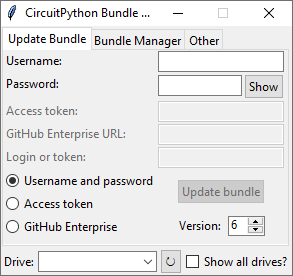
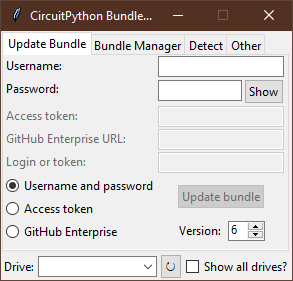
Update README.md about detect tab

diff --git a/gui.py b/gui.py
@@ -1085,7 +1085,6 @@ class GUI(tk.Tk):
         self.detect_frame = ttk.Frame(master=self.notebook)
         self.detect_frame.grid(row=0, column=0)
         self.notebook.add(child=self.detect_frame, text="Detect")
-        # TODO: Test on Linux
         # TODO: Test on macOS
         self.create_detect_top_ui()
         self.create_detected_frame()

diff --git a/README.md b/README.md
@@ -4,17 +4,18 @@ A Python program that makes it easy to manage modules on a CircuitPython device!
 request if you can fix it! 
 
 ## Table of Contents
-1. [Installing](https://github.com/UnsignedArduino/CircuitPython-Bundle-Manager#installing)
-   1. [Installing from a binary](https://github.com/UnsignedArduino/CircuitPython-Bundle-Manager#installing-from-a-binary)
-   2. [Installing from source](https://github.com/UnsignedArduino/CircuitPython-Bundle-Manager#installing-from-source)
-2. [Running](https://github.com/UnsignedArduino/CircuitPython-Bundle-Manager#running)
-3. [How to use](https://github.com/UnsignedArduino/CircuitPython-Bundle-Manager#how-to-use)
-   1. [First use](https://github.com/UnsignedArduino/CircuitPython-Bundle-Manager#first-run)
-   2. [Selecting a device](https://github.com/UnsignedArduino/CircuitPython-Bundle-Manager#selecting-a-device)
-   3. [Managing modules](https://github.com/UnsignedArduino/CircuitPython-Bundle-Manager#managing-modules)
-   4. [Keeping the bundle updated](https://github.com/UnsignedArduino/CircuitPython-Bundle-Manager#keeping-the-bundle-updated)
-   5. [Other](https://github.com/UnsignedArduino/CircuitPython-Bundle-Manager#other)
-4. [Options](https://github.com/UnsignedArduino/CircuitPython-Bundle-Manager#options)
+1. [Installing](#installing)
+   1. [Installing from a binary](#installing-from-a-binary)
+   2. [Installing from source](#installing-from-source)
+2. [Running](#running)
+3. [How to use](#how-to-use)
+   1. [First use](#first-run)
+   2. [Selecting a device](#selecting-a-device)
+   3. [Managing modules](#managing-modules)
+   4. [Keeping the bundle updated](#keeping-the-bundle-updated)
+   5. [Automatically detecting imported modules](#automatically-detecting-imported-modules)
+   6. [Other](#other)
+4. [Options](#options)
 
 ## Installing
 
@@ -65,16 +66,14 @@ You can find a detailed description of the one-directory method
 how the one-file method works 
 [here](https://pyinstaller.readthedocs.io/en/stable/operating-mode.html#bundling-to-one-file).
 
-[Back to table of contents](https://github.com/UnsignedArduino/CircuitPython-Bundle-Manager#table-of-contents)
+[Back to table of contents](#table-of-contents)
 
 ### Installing from source
 
 1. [Download](https://git-scm.com/downloads) and install Git. It does not matter what editor you use for Git's default.
     1. Or...download this repo via the `Download ZIP` option under the green `Code` button, shown in Figure 1.1:
    ![A picture on the Download Zip button on the GitHub page](assets/1/1.png)
-2. [Download](https://www.python.org/downloads/) and install Python 3. 
-   (Here is [Python 3.9](https://www.microsoft.com/en-us/p/python-39/9p7qfqmjrfp7) on the Microsoft Store) 
-   Theoretically, you can use a version as early as 3.6, but I only tested this on 3.7 and 3.9.
+2. [Download](https://www.python.org/downloads/) and install Python **3.9**. (Because I use type definitions)
     1. Make sure to check `Add Python 3.x to PATH`, as shown in Figure 1.2:
        
        ![A picture of the Python 3.9 installer with the Add Python 3.9 to PATH checkbox checked](assets/1/2.png)
@@ -82,6 +81,11 @@ how the one-file method works
        Figure 1.3: (Only applies if you are using the `Customize installation` option in the installer)
        
        ![A picture of the Python 3.9 installer with the tcl/tk and IDLE checkbox checked](assets/1/3.png)
+   
+       If you are building Python, 
+       ([Here is a guide on building Python on Debian I found helpful](https://www.vultr.com/docs/upgrade-python-on-debian)) 
+       make sure to install `tk-dev`! (with `sudo apt install tk-dev`) and include SSL support! (Via the `--with-ssl` 
+       option while configuring.)
 3. If you are on Windows, I would also install the 
    [Windows Terminal](https://www.microsoft.com/en-us/p/windows-terminal/9n0dx20hk701) while you are at it.
 4. If you installed Git, `cd` into a convenient directory (like the home directory or the desktop) and run:
@@ -140,7 +144,7 @@ how the one-file method works
     python3 main.py
     ```
 
-[Back to table of contents](https://github.com/UnsignedArduino/CircuitPython-Bundle-Manager#table-of-contents)
+[Back to table of contents](#table-of-contents)
 
 ## Running
 **This only applies if you installed from source!**
@@ -163,11 +167,16 @@ cd path/to/the/CircuitPython-Bundle-Manager
 ```
 Don't forget to give the `.sh` file execute permission! (`chmod +x shell_file.sh`)
 
-[Back to table of contents](https://github.com/UnsignedArduino/CircuitPython-Bundle-Manager#table-of-contents)
+[Back to table of contents](#table-of-contents)
 ## How to use
 
 ### First run
 On run, you should get something like this:
+
+> If the GUI looks different from these images, it's because I don't want to update all these images. I will only 
+> update the relevant images. (So if I add something in the example, Bundle Manager, then I will include new 
+> instructions on how to use it, I won't be updating all the images that show the Bundle Manager.) The functionality 
+> _should_ still be the same.
 
 Figure 2.1: Start up on Windows.
 
@@ -228,9 +237,9 @@ Figure 2.8: The info box when the bundle updates successfully.
 ![The information box shown when the bundle successfully updates](assets/2/8.png)
 
 That is it! Continue to 
-[selecting a device](https://github.com/UnsignedArduino/CircuitPython-Bundle-Manager#selecting-a-device).
+[selecting a device](#selecting-a-device).
 
-[Back to table of contents](https://github.com/UnsignedArduino/CircuitPython-Bundle-Manager#table-of-contents)
+[Back to table of contents](#table-of-contents)
 
 ### Selecting a device
 
@@ -277,9 +286,9 @@ instructions:
 7. Select the device!
 
 That is it! Continue to 
-[managing modules](https://github.com/UnsignedArduino/CircuitPython-Bundle-Manager#managing-modules).
+[managing modules](#managing-modules).
 
-[Back to table of contents](https://github.com/UnsignedArduino/CircuitPython-Bundle-Manager#table-of-contents)
+[Back to table of contents](#table-of-contents)
 
 ### Managing modules
 
@@ -331,14 +340,14 @@ Figure 2.19: We see that it has been successfully uninstalled!
 ![An information dialog saying "Successfully uninstalled module!"](assets/2/19.png)
 
 That is it! Continue to 
-[keeping the bundle updated](https://github.com/UnsignedArduino/CircuitPython-Bundle-Manager#keeping-the-bundle-updated).
+[keeping the bundle updated](#keeping-the-bundle-updated).
 
-[Back to table of contents](https://github.com/UnsignedArduino/CircuitPython-Bundle-Manager#table-of-contents)
+[Back to table of contents](#table-of-contents)
 
 ### Keeping the bundle updated
 
 Follow the instructions provided in 
-[first run](https://github.com/UnsignedArduino/CircuitPython-Bundle-Manager#first-run). You only need to do this once a 
+[first run](#first-run). You only need to do this once a 
 day, since the bundle is updated once a day at ~12PM EST.
 
 TL;DR:
@@ -349,14 +358,39 @@ TL;DR:
 4. Select CircuitPython version.
 5. Press `Update`!
 
-[Back to table of contents](https://github.com/UnsignedArduino/CircuitPython-Bundle-Manager#table-of-contents)
+[Back to table of contents](#table-of-contents)
+
+### Automatically detecting imported modules
+
+> Note: This feature is still very new! Problems? 
+> [Report an issue!](https://github.com/UnsignedArduino/CircuitPython-Bundle-Manager/issues/new)
+
+Instead of scrolling through the bundle or using the search bar, why not save a couple more steps and have the 
+CircuitPython Bundle Manager automatically detect dependencies for you? Figure 2.20 shows the `Detect` tab:
+
+Figure 2.20: The `Detect` tab in the CircuitPython Bundle Manager.
+
+![A picture of the CircuitPython Bundle Manager's detect tab open](assets/2/20.png)
+
+If you have a CircuitPython device selected and there is a valid code file (One of `code.txt`, `code.py`, `main.txt`, 
+`main.py`) you can press the `Detect` button to have the CircuitPython Bundle Manager parse the code files and look at 
+your import statements. I'm using [this example](https://learn.adafruit.com/adafruit-airlift-featherwing-esp32-wifi-co-processor-featherwing/internet-connect#connect-to-wifi-3035277-4:~:text=%23%20SPDX%2DFileCopyrightText%3A%202019%20ladyada%20for%20Adafruit,print(%22Done!%22)) 
+from the Adafruit Airlift Featherwing Internet Connect guide from the Adafruit Learn site. If you click on one of the
+modules and it's in the bundle, the `Find in bundle` button will light up. Pressing it will teleport you to the Bundle
+Manager allowing you to click `Install`!
+
+Figure 2.21: After clicking on `adafruit_requests` in the listbox and pressing `Find in bundle`, I was teleported here! 
+
+![A picture of the CircuitPython Bundle Manager's bundle Manager's tab open with adafruit_requests selected](assets/2/21.png)
+
+[Back to table of contents](#table-of-contents)
 
 ### Other
 
-Figure 2.20: The `Other` tab in the CircuitPython Bundle Manager. The interface may change and I will probably forget 
+Figure 2.22: The `Other` tab in the CircuitPython Bundle Manager. The interface may change and I will probably forget 
 to change this too.
 
-![A picture of the CircuitPython Bundle Manager's other tab open](assets/2/20.png)
+![A picture of the CircuitPython Bundle Manager's other tab open](assets/2/22.png)
 
 - `Open README file` opens this file locally with the default `.md` program. If it cannot find it, it will attempt to 
   download it from GitHub.
@@ -368,7 +402,7 @@ to change this too.
 - `Open GitHub repo link` opens the repository in the default browser.
 - `Copy GitHub repo link` copies the link to this repository on GitHub to the clipboard.
 
-[Back to table of contents](https://github.com/UnsignedArduino/CircuitPython-Bundle-Manager#table-of-contents)
+[Back to table of contents](#table-of-contents)
 
 ## Options
 You can find these options in `config.json`, which is in the same directory as 
@@ -393,4 +427,4 @@ auto-generated upon first run. In case it does not happen, (file a issue?) this 
 If you want to reset the config file, either delete it or clear the contents of the config. If you want to reset just 
 one option, remove it from the configuration file.
 
-[Back to table of contents](https://github.com/UnsignedArduino/CircuitPython-Bundle-Manager#table-of-contents)
+[Back to table of contents](#table-of-contents)
